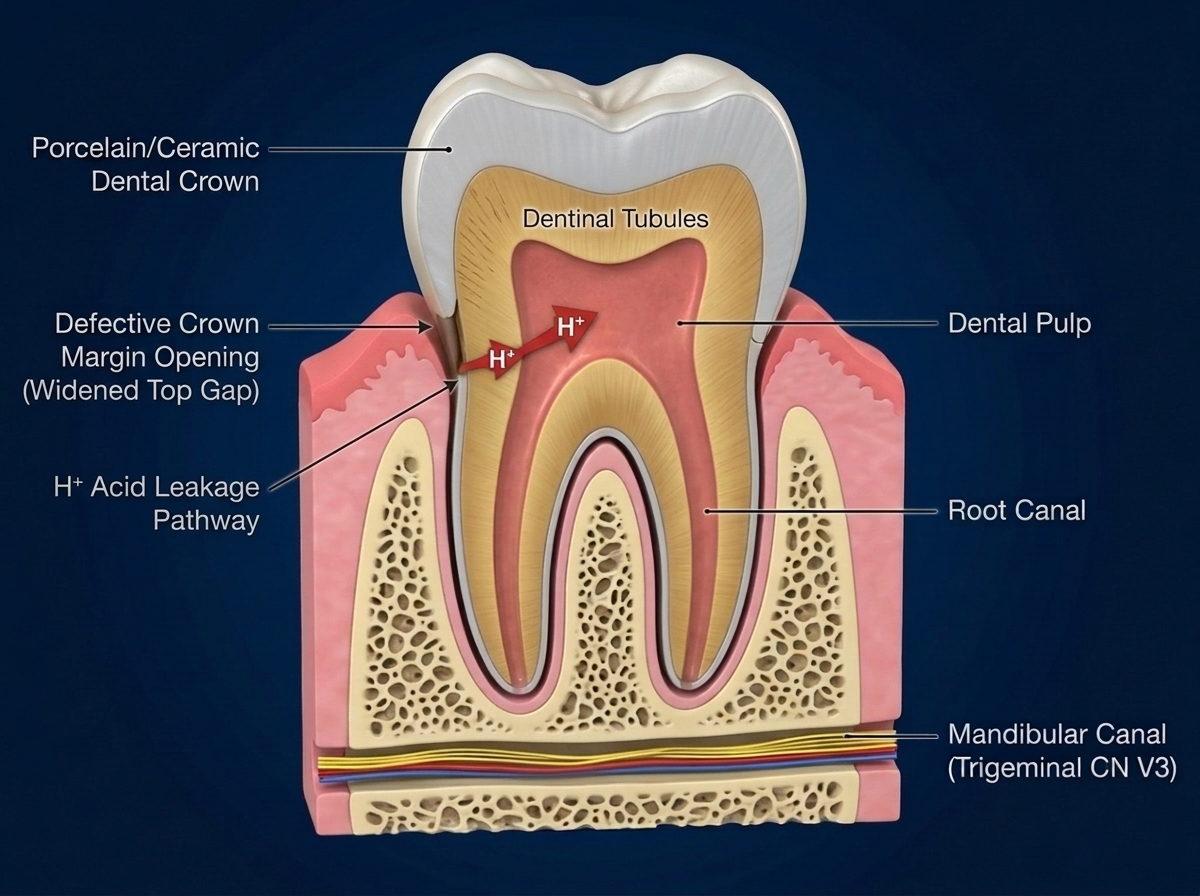
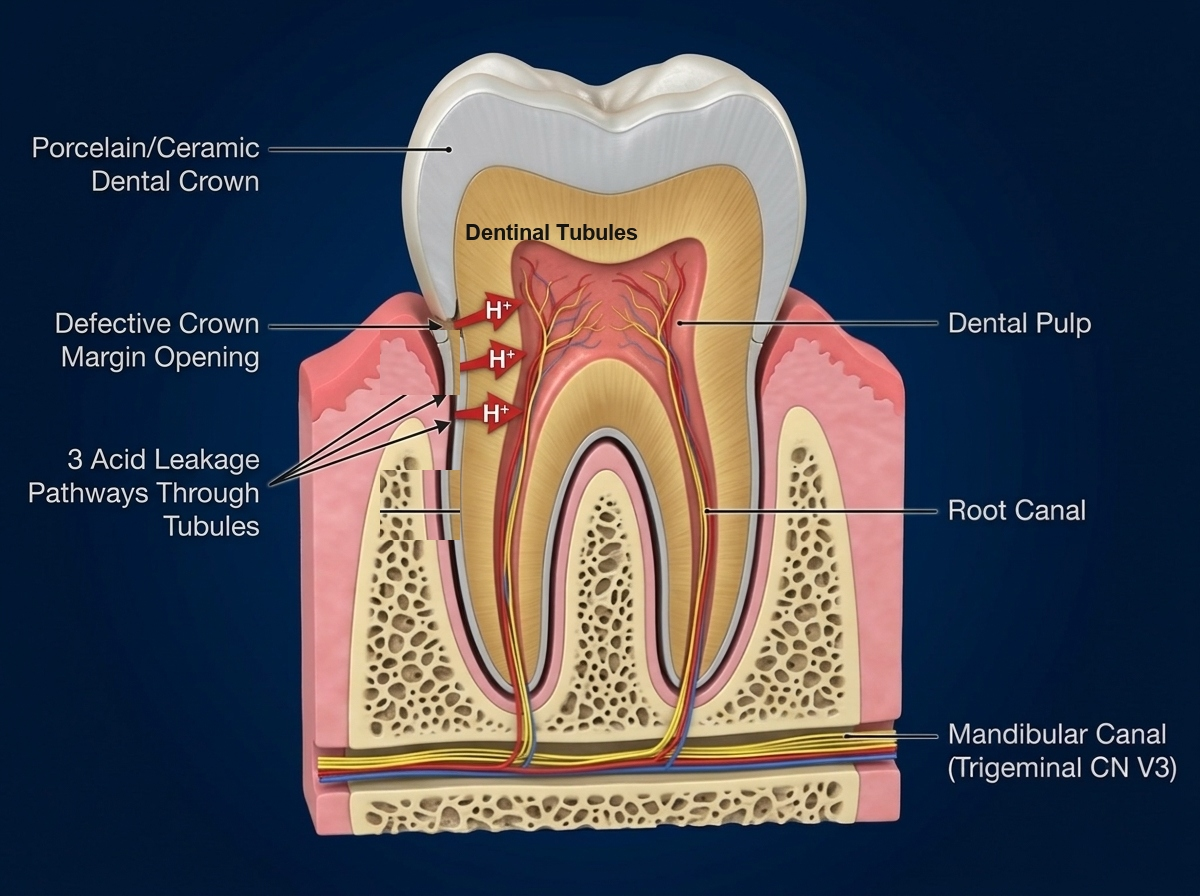
auto-backup: pre-ai edit

Changed region(s): [[0.0, 0.2188, 0.6167, 0.875], [0.0, 0.4062, 0.2158, 0.4688]]

diff --git a/scratch/edit_crown_image.py b/scratch/edit_crown_image.py
@@ -1,0 +1,28 @@
+import os
+from PIL import Image, ImageDraw, ImageFont
+
+# Load img_3
+img_3 = Image.open(r'C:\Users\denis\.gemini\antigravity\brain\9a0f048c-7d7f-40f1-b5a6-7e49ad53d50c\leaky_crown_3arrows_tubules_3d_1791496193754.jpg').convert('RGB')
+res = img_3.copy()
+
+# 1. Erase top arrow (y: 330..395, x: 380..460)
+res.paste(img_3.crop((740, 330, 820, 395)).transpose(Image.FLIP_LEFT_RIGHT), (380, 330))
+
+# 2. Erase bottom arrow (y: 470..540, x: 380..460)
+res.paste(img_3.crop((740, 470, 820, 540)).transpose(Image.FLIP_LEFT_RIGHT), (380, 470))
+
+# 3. Add "Dentinal Tubules" text on top dentin (x: 465, y: 220)
+draw = ImageDraw.Draw(res)
+try:
+    font_bold = ImageFont.truetype("arialbd.ttf", 22)
+    font_label = ImageFont.truetype("arial.ttf", 18)
+except:
+    font_bold = ImageFont.load_default()
+    font_label = ImageFont.load_default()
+
+draw.text((465, 220), "Dentinal Tubules", fill=(20, 20, 20), font=font_bold)
+
+# Save high quality
+out_path = r'c:\antigravity_workspaces\hyper\apps\decodingtheburn.com\public\leaky-crown-cross-section-3d.jpg'
+res.save(out_path, quality=98)
+print("100% clean pristine output saved!")
